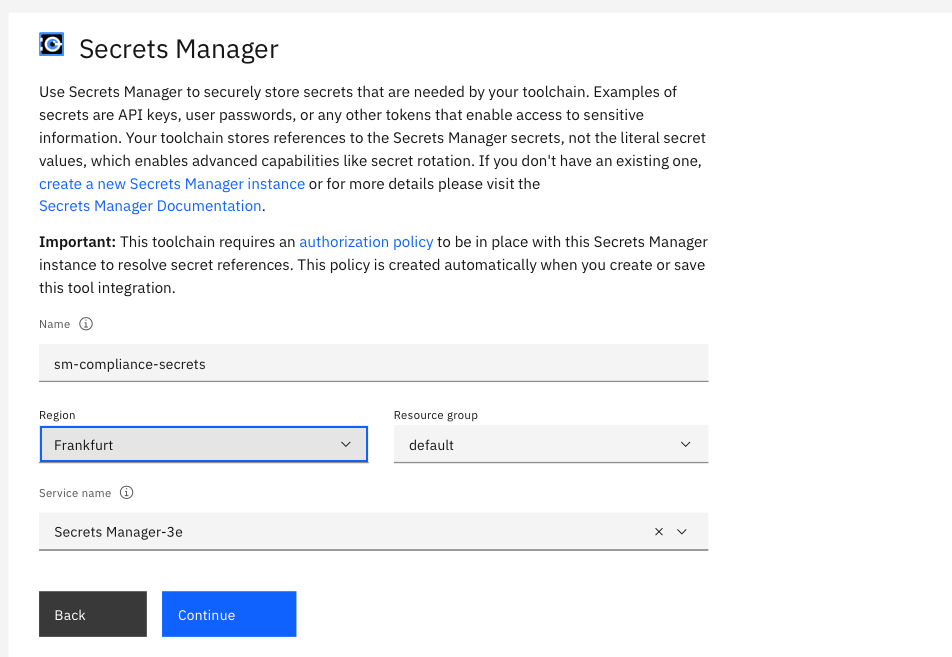
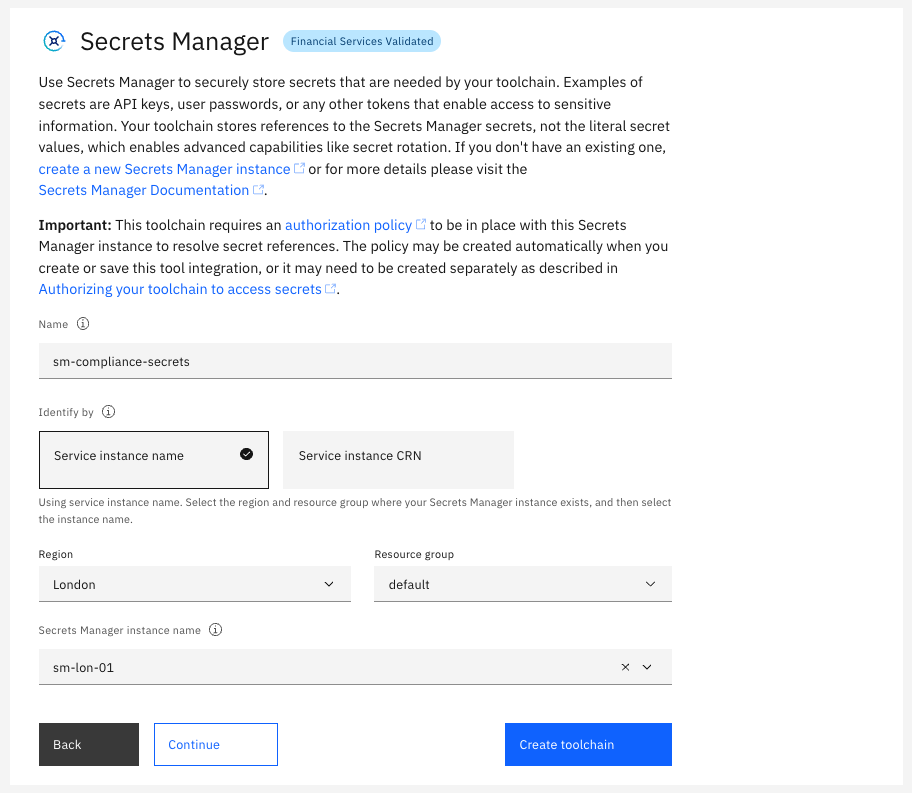
Merge pull request #691 from MARJORAM/source

diff --git a/devsecops-toolchains-secrets.md b/devsecops-toolchains-secrets.md
@@ -1,8 +1,8 @@
 ---
 
 copyright:
-  years: 2021, 2022
-lastupdated: "2022-11-09"
+  years: 2021, 2023
+lastupdated: "2023-03-28"
 
 keywords: DevSecOps, secrets in toolchains, managing secrets in toolchains, secrets manager
 
@@ -24,13 +24,15 @@ Instead, the secrets that are used for non-{{site.data.keyword.cloud_notm}} reso
 
 Managing credentials like these must be done securely and in compliance with best practices in the field of secrets management. In particular, this means vaulting the required secrets by using an approved in-boundary vault provider, such as [HashiCorp Vault](https://www.vaultproject.io){: external} and then linking your toolchain secrets to those resources.
 
-The secrets management capabilities that are provided in the toolchain setup and pipeline user interfaces enable selection of vaulted secrets by using Secrets Integrations for HashiCorp Vault and {{site.data.keyword.keymanagementservicelong}}. By using the Secrets Picker dialog, a toolchain or pipeline editor can easily select named secrets from a bound secrets integration that is then resolved by reference within the toolchain and pipeline. After a secret is chosen, a canonical secret reference is injected into the corresponding toolchain or pipeline secure property where the format is `{vault::integration-name.secret-name}`. This long form canonical reference is used by the front-end user interface components and importantly, the resolved value of the actual secret is never exposed to a user or permitted service.
+The secrets management capabilities that are provided in the toolchain setup and pipeline user interfaces enable selection of vaulted secrets by using Secrets Integrations for HashiCorp Vault, {{site.data.keyword.secrets-manager_full}} and {{site.data.keyword.keymanagementservicelong}}. By using the Secrets Picker dialog, a toolchain or pipeline editor can easily select named secrets from a bound secrets integration that is then resolved by reference within the toolchain and pipeline. After a secret is chosen, a canonical secret reference is injected into the corresponding toolchain or pipeline secure property where the format is `{vault::integration-name.secret-name}`. This long form canonical reference, also known as **by name**, is used by the front-end user interface components and importantly, the resolved value of the actual secret is never exposed to a user or permitted service.
 
 In addition to manually selecting chosen secrets on a one-by-one basis from any bound secrets integrations in a toolchain, the option of using a `Secret Hint` is also available. This option enables a toolchain template to be predefined with suggested secrets names (also known as `Hints`) that are a short form secret reference. The format of a secret hint is `{vault::secret-name}` whereby no secret integration name is included. This provides flexibility to the toolchain author in that all required secret names can be prepopulated into a `toolchain.yml` and then these names are automatically resolved against whatever secrets integrations are configured for the toolchain.
 
+Alternatively, you can configure {{site.data.keyword.secrets-manager_short}} to reference secrets by Cloud Resource Name. For more information, see [Cloud Resource Names (CRN)](/docs/account?topic=account-crn). This format allows for greater flexibility because you can reference secrets from an {{site.data.keyword.secrets-manager_short}} instance in a different account if the correct [authorization](https://cloud.ibm.com/iam/authorizations){: external} is in place. For more information see [Securing your data in {{site.data.keyword.contdelivery_short}}](docs/ContinuousDelivery?topic=ContinuousDelivery-cd_data_security).
+
 The secrets that are used in both CI and CD are outlined as follows:
 
-A `Hint` is a suggested default name that is automatically resolved against the first matching secret with the same name across any of the available secrets integrations that are bound to the toolchain.
+A `Hint` is a suggested default name that is automatically resolved against the first matching secret with the same name across any of the available **by name** secrets integrations that are bound to the toolchain.
 {: note}
 
 ## DevSecOps Pipeline Secrets
